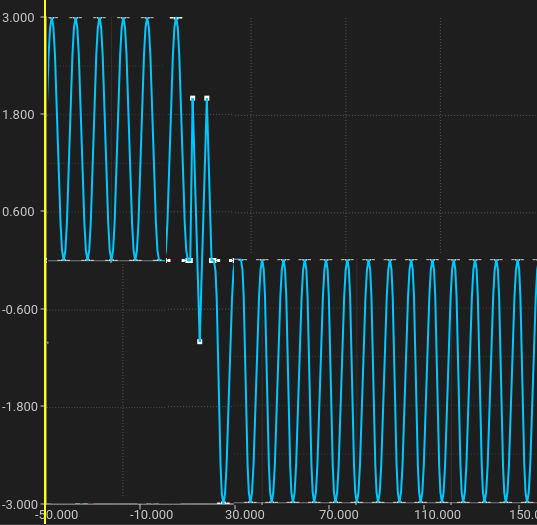
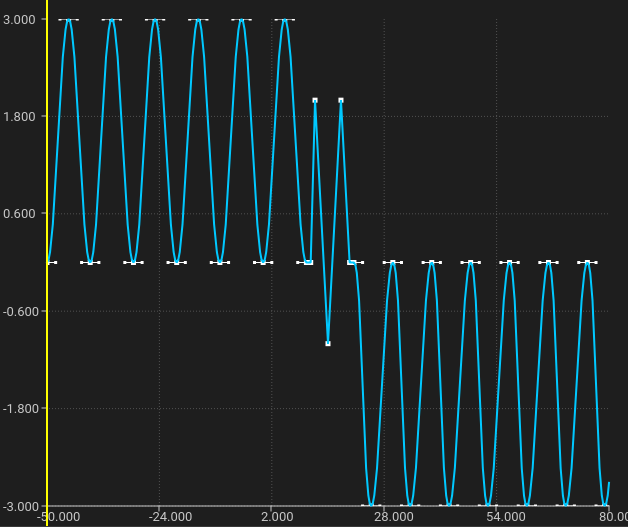
Fixing valueclips+extrap screenshot in animation guide doc
(Internal change: 2422437)

Changed region(s): [[0.0, 0.0, 1.0, 1.0], [0.2384, 0.9448, 0.3277, 1.0]]

diff --git a/docs/user_guides/time_and_animated_values.rst b/docs/user_guides/time_and_animated_values.rst
@@ -3418,7 +3418,7 @@ spline for all times after the clip set.
     #usda 1.0
     (
         startTimeCode = -50
-        endTimeCode = 150
+        endTimeCode = 80
     )
 
     def "PrimA" (
